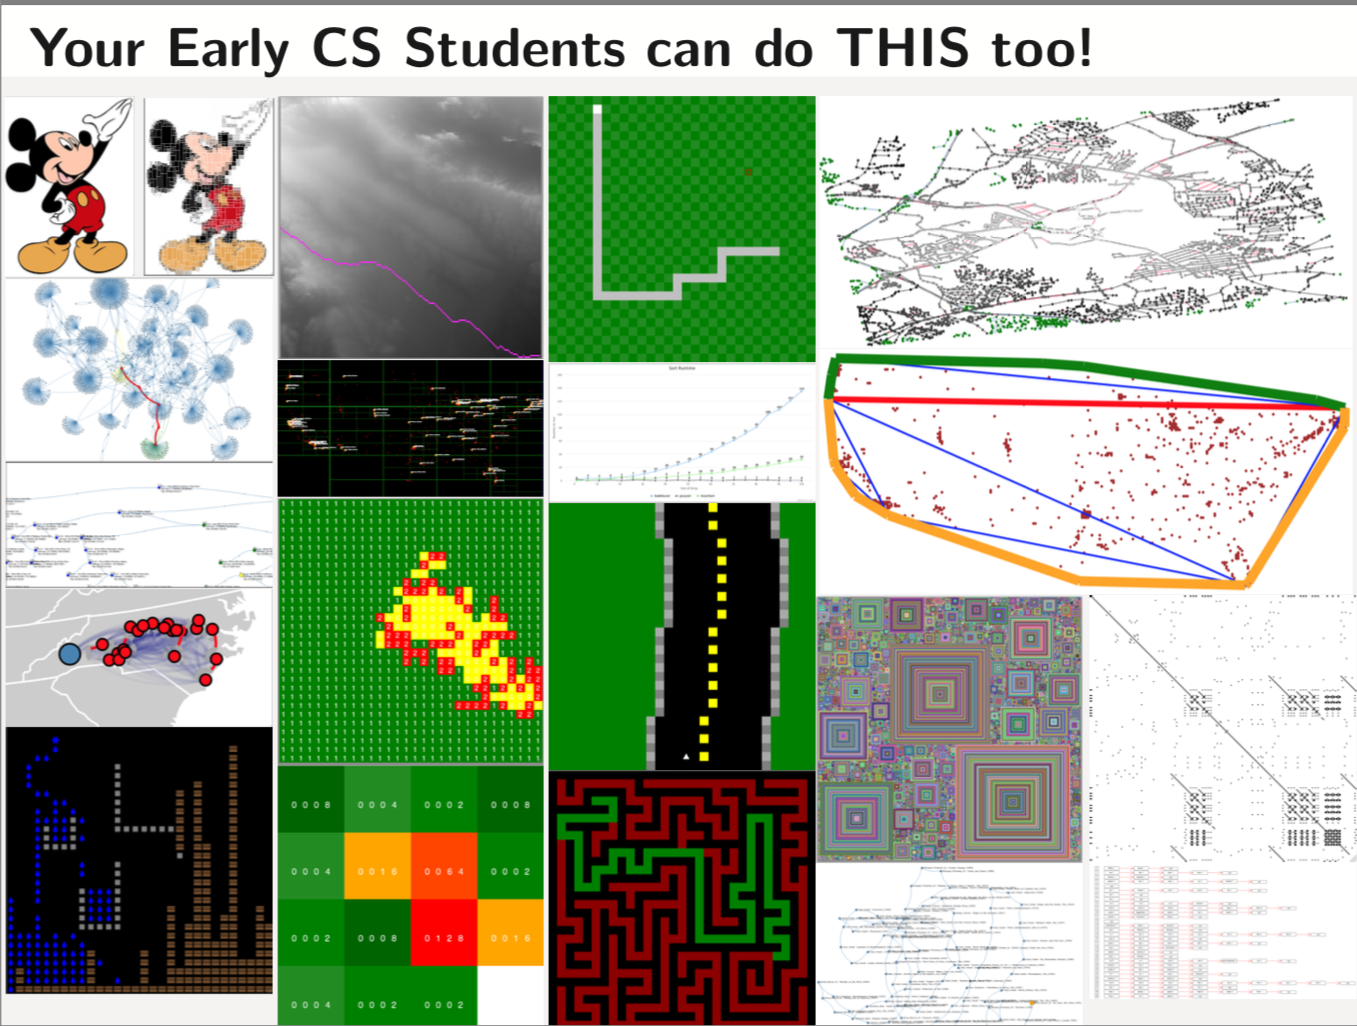
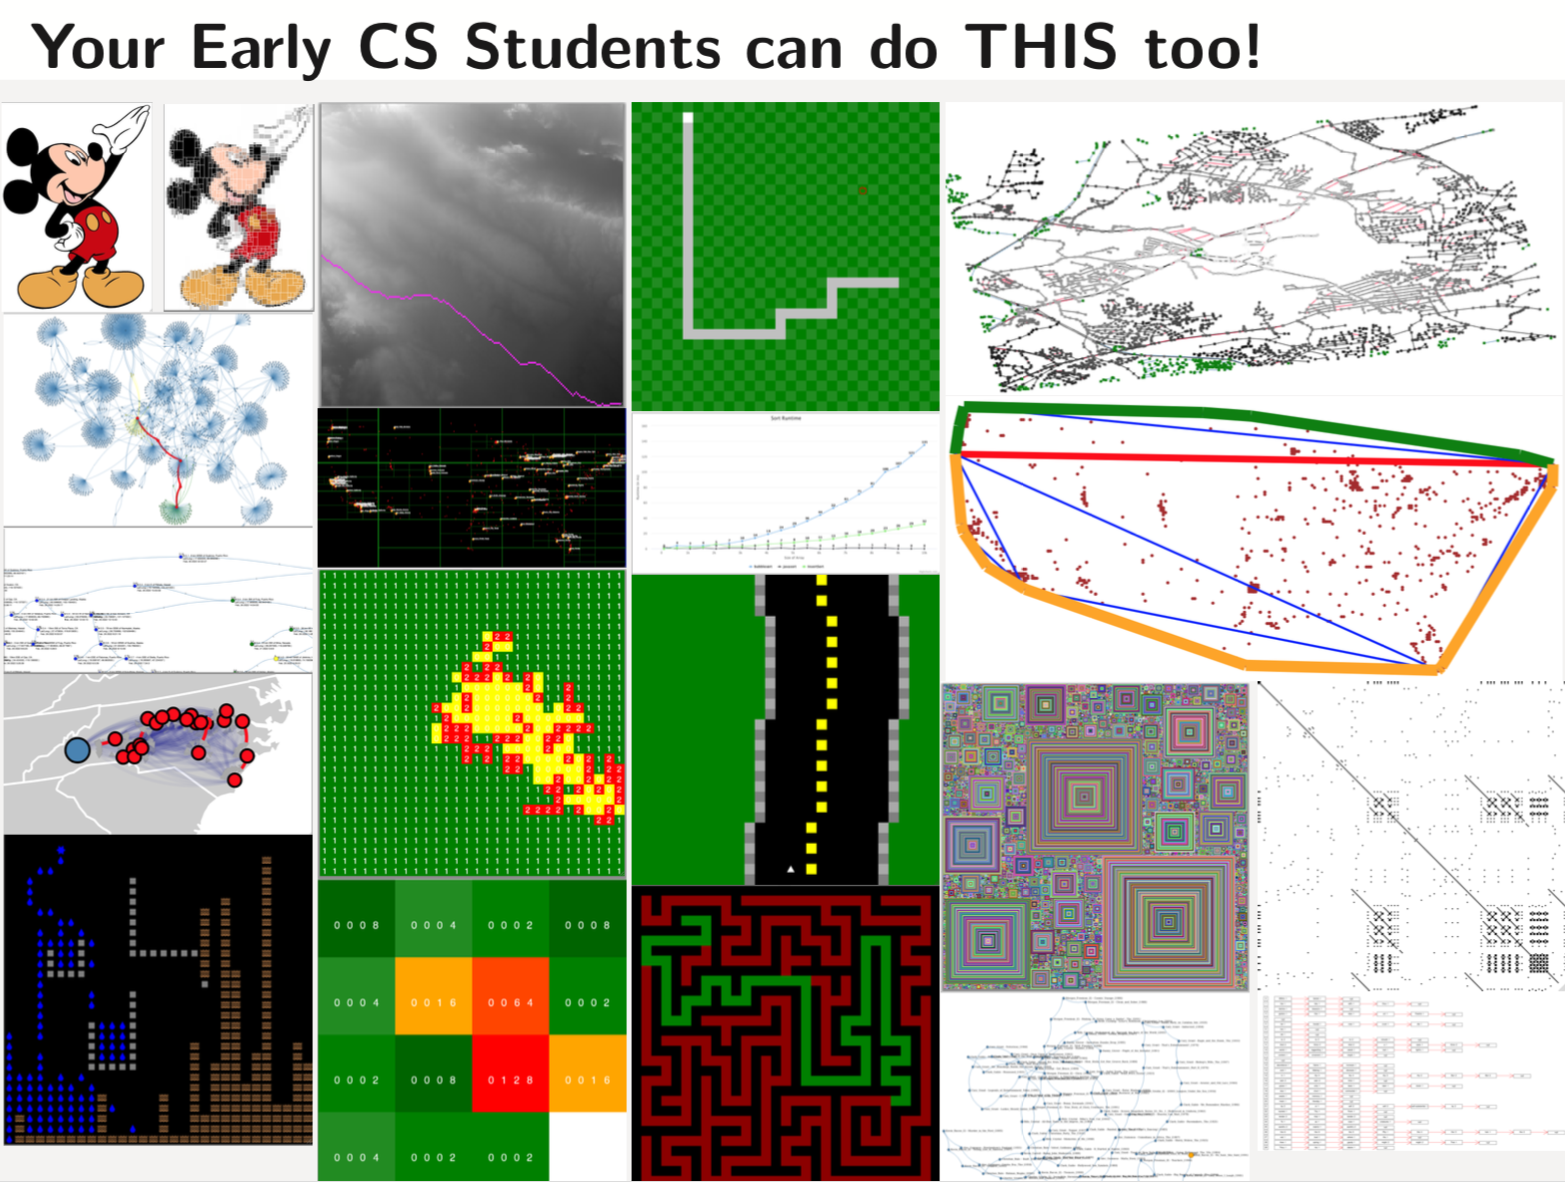
updated files

diff --git a/workshops/2022/BRIDGES-Summer-22/workshop.html b/workshops/2022/BRIDGES-Summer-22/workshop.html
@@ -9,9 +9,9 @@ BRIDGES provides a toolkit  that lets you easily bring in interesting and engagi
 real-world data into your course assignments, and allows your students to build 
 simple games, create data structure  visualizations, and assess algorithm performance.  BRIDGES can show the relevance of computing in these early foundational courses by connecting
 it with real-world problems and scenarios. See the following image and links to more detailed
-information on BRIDGES and examples</i>
+information on BRIDGES and examples</i> <p> <p>
 
-<img src = "bridges_examples.png" width = 750px class = "center"> </img>
+<img src = "bridges_examples.png" width = 1000px class = "center"> </img>
 
 <h3> Links for more information on BRIDGES and Interactive Examples</h3>
 
